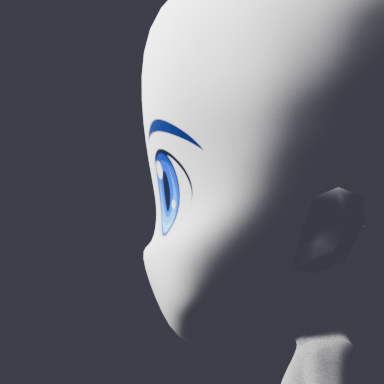
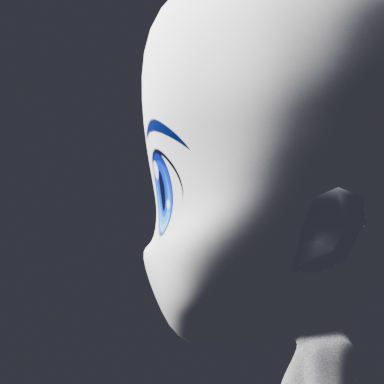
tune eye spacing to actor proportions

Changed region(s): [[0.375, 0.3125, 0.5312, 0.625]]

diff --git a/tools/blender/build_eye_assembly_v1.py b/tools/blender/build_eye_assembly_v1.py
@@ -37,6 +37,7 @@ def cli_args() -> argparse.Namespace:
     parser.add_argument("--frame", type=int, default=1)
     parser.add_argument("--width-scale", type=float, default=0.68)
     parser.add_argument("--height-scale", type=float, default=0.68)
+    parser.add_argument("--spacing-scale", type=float, default=0.86)
     parser.add_argument("--clearance", type=float, default=0.008)
     parser.add_argument("--curvature", type=float, default=0.018)
     return parser.parse_args(argv)
@@ -187,11 +188,13 @@ def main() -> int:
         scene.collection.children.link(collection)
     left_material = make_texture_material("EyeAssemblyV1_ImageGen_L", options.left_texture)
     right_material = make_texture_material("EyeAssemblyV1_ImageGen_R", options.right_texture)
+    native_midpoint = (source_bounds["L"][0] + source_bounds["L"][1] + source_bounds["R"][0] + source_bounds["R"][1]) * 0.25
 
     surfaces = []
     for side, material in (("L", left_material), ("R", right_material)):
         low, high = source_bounds[side]
         eye_center = (low + high) * 0.5
+        eye_center.x = native_midpoint.x + (eye_center.x - native_midpoint.x) * options.spacing_scale
         eye_width = high.x - low.x
         eye_height = high.z - low.z
         width = eye_width * 1.42 * options.width_scale
@@ -254,6 +257,7 @@ def main() -> int:
         "placement": {
             "width_scale": options.width_scale,
             "height_scale": options.height_scale,
+            "spacing_scale": options.spacing_scale,
             "clearance": options.clearance,
             "curvature": options.curvature,
         },

diff --git a/docs/EYE_BLINK_DESIGN.md b/docs/EYE_BLINK_DESIGN.md
@@ -54,5 +54,5 @@ Blender 完成四方向 3D→2D 烘焙后，Godot 只负责播放已经验证的
 - 第一阶段已建立 `EyeAssemblyV1` 静态结构：`tools/blender/build_eye_assembly_v1.py`。
 - 第一阶段 image_gen 资产：`prototype/assets/generated/eye_assembly_v1/`，眉毛与眼睛由同一张 Q 版日系参考生成，再经过 chroma-key 去背景和左右裁切；没有本地绘制像素。
 - 第一阶段验证输出：`prototype/test_output/eye_assembly_v1/`。它通过 Actor V1 Blend 的 `CC_Base_Head` 父级挂载，正面/三分之四/右侧/背面均已渲染；当前作为静态测试候选接入 gallery，不代表最终资源。
-- 当前 gallery 测试候选已更新为较小尺寸：相对 Actor 原生眼睛宽高倍率为 `0.68/0.68`，并在同一头部父级下使用 `EyeAssemblyV1_FitToHeadSurface` Shrinkwrap 贴合头部表面；这只是测试参数，最终尺寸仍以 Actor 标准复核为准。
+- 当前 gallery 测试候选已更新为较小尺寸：相对 Actor 原生眼睛宽高倍率为 `0.68/0.68`，中心间距倍率为 `0.86`，并在同一头部父级下使用 `EyeAssemblyV1_FitToHeadSurface` Shrinkwrap 贴合头部表面；这只是测试参数，最终尺寸仍以 Actor 标准复核为准。
 - 当前仍未开始眨眼：下一阶段才在这套静态表面上建立稳定拓扑和 `Open/Half/Closed` Shape Keys。

diff --git a/docs/EYE_ANIME_RESET_AND_MATURE_OPTIONS_2026-08-05.md b/docs/EYE_ANIME_RESET_AND_MATURE_OPTIONS_2026-08-05.md
@@ -32,7 +32,7 @@
 
 已完成静态 `EyeAssemblyV1`：使用 image_gen 生成的眉毛+眼睛组合参考，裁切为左右 RGBA 资产，并由两个同构的浅曲面组成同一个 `EyeAssemblyV1` 集合。两个表面都直接 Bone Parent 到 `Armature/CC_Base_Head`，旧 `EyePackageV1_*` 和 `EyeBlinkV1_*` 对象在实验 Blend 中已移除。
 
-已验证：正面最大睁眼、三分之四投影、右侧边缘投影、背面无眼睛、frame 1/31 的头部跟随。后续复核发现初版尺寸偏大且表面浮空，已在不新增 image_gen 的前提下将测试倍率调整为 `0.68/0.68`，并加入头部表面 Shrinkwrap；当前版本已接入 gallery，但仍不是眨眼或最终资源。
+已验证：正面最大睁眼、三分之四投影、右侧边缘投影、背面无眼睛、frame 1/31 的头部跟随。后续复核发现初版尺寸偏大且表面浮空，已在不新增 image_gen 的前提下将测试倍率调整为 `0.68/0.68`、中心间距调整为 `0.86`，并加入头部表面 Shrinkwrap；当前版本已接入 gallery，但仍不是眨眼或最终资源。
 
 ## 暂不做
 
